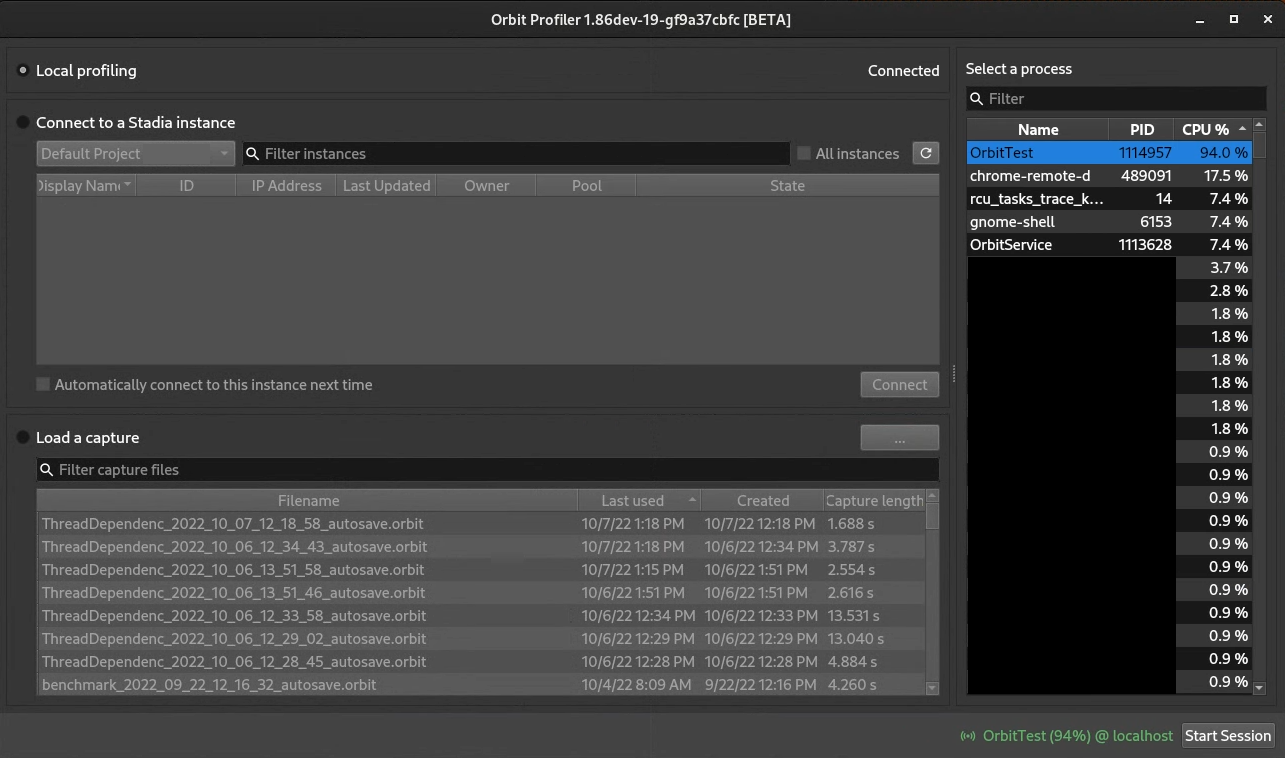
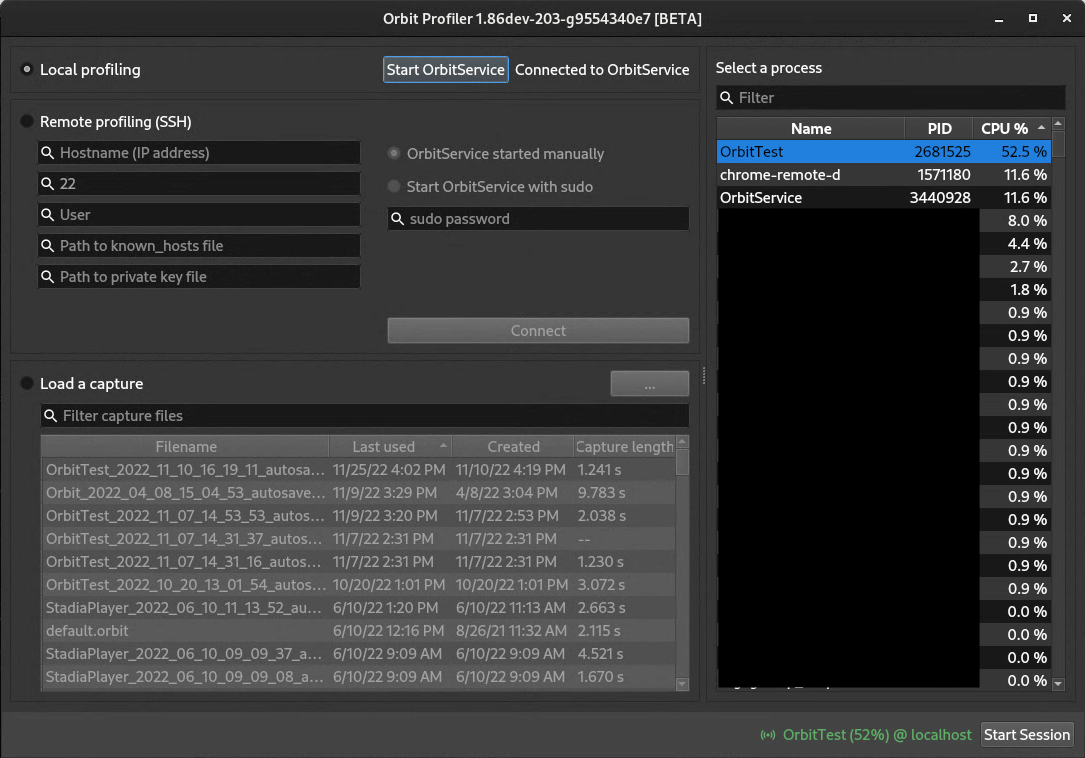
Update Documentation

diff --git a/documentation/DOCUMENTATION.md b/documentation/DOCUMENTATION.md
@@ -14,38 +14,17 @@ have feature requests, consider creating an
 > **Note** Orbit is now mainly a **Linux** profiler. Windows support is
 > experimental and not all features are available on Windows.
 
-## Prerequisites
+## Start Orbit and OrbitService
 
-You need to have `Orbit` and `OrbitService`
-[built](../DEVELOPMENT.md#building-orbit) and
-[running](../DEVELOPMENT.md#building-orbit).
+When starting Orbit, the so-called **Connection Window** (screenshot below) is
+shown. From here, you can start a local or remote profiling session. 
 
-> **Note** For reasonable feature support, `OrbitService` needs to run as
-> **root** (or Administrator on Windows).
+![Connection Window][orbit_connection_window]
 
-> **Note** For remote profiling support you can tunnel the TCP port `44765`
-> through an SSH connection to an arbitrary Linux server.
+### Local Profiling
 
-## Profile your application
-
-In this section, we will go through a capture session showing you how to select
-your target process for profiling, dynamically instrument functions, and record
-a capture. Note that captures are saved automatically.
-
-### Connect Orbit
-
-This section shows you how to select your target process for profiling or load a
-saved capture.
-
-> **Note** Your application must already be running on the target instance.
-
-1. Launch `Orbit` and `OrbitService` as described
-   [here](../DEVELOPMENT.md#building-orbit).
-   Orbit will open the so-called **Connection Window** (screenshot below).
-
-   ![Choose Process in Orbit][orbit_processes]
-2. Select **Local profiling**.
-
+1. Select `Local Profiling`, click `Start OrbitService` and enter your root password
+   
    Once the connection gets established, the right pane shows the processes
    running on the target machine. Note that Orbit sorts processes by CPU usage
    and automatically selects the first process in the list.
@@ -55,7 +34,9 @@ saved capture.
    > window. For ease of access, Orbit maintains a list of captures that you
    > saved recently.
 
-3. To confirm the selected process and continue to the main window, click
+   ![Choose Process in Orbit][orbit_processes]
+
+2. To confirm the selected process and continue to the main window, click
    **Start Session** or <kbd>Double-Click</kbd> the process. In the
    **Main Window**, you can see the following:
 
@@ -68,11 +49,41 @@ saved capture.
 
    ![Orbit's main window with processes and modules][orbit_main_window_startup]
 
-4. To return to the startup window and select a different process, or connect
-   to a different instance, click **End Session**.
+3. To return to the **Connection Window** and select a different process, or 
+   connect to a different machine, click **End Session**.
 
    > **Note** If you loaded a capture from file, the right side of the menu bar
    displays the filename of the capture instead of connection details.
+
+### Remote Profiling (SSH)
+
+Orbit supports setting up and using a secure communication channel between the
+locally running UI and OrbitService running on a remote machine. To do that, 
+use the **Connection Window** and
+
+1. Select `Remote Profiling (SSH)`
+
+2. Fill all fields on the left side with the values you want to use for the SSH
+   connection. Orbit only supports file based authentication.
+
+3. Choose either `OrbitService started manually` or 
+  `Start OrbitService with sudo`.
+
+   Pick the former if you manually started OrbitService on the remote machine.
+
+   If you want Orbit to upload and start OrbitService, choose the other option
+   and provide a sudo password.
+
+4. Click `Connect` and wait for Orbit to establish the ssh connection.
+
+5. Continue by selecting your target process and starting the session in the 
+   same way as described [above](#local-profiling)
+
+## Profile your application
+
+In this section, we will go through a capture session. This includes recording
+a capture with callstack sampling, dynamically instrumenting functions and 
+more. Note that captures are saved automatically.
 
 ### Record a capture with callstack sampling
 
@@ -835,6 +846,7 @@ we highly recommend that you take a look at the references provided above.
 [linux-proc]: https://man7.org/linux/man-pages/man5/proc.5.html
 [linux-vmstat]: https://man7.org/linux/man-pages/man8/vmstat.8.html
 [linux-cgroup]: https://www.kernel.org/doc/Documentation/cgroup-v1/memory.txt
+[orbit_connection_window]: orbit_connection_window.png
 [orbit_processes]: orbit_processes.png
 [orbit_main_window_default_capture]: orbit_main_window_default_capture.png
 [orbit_main_window_capture]: orbit_main_window_capture.png

diff --git a/DEVELOPMENT.md b/DEVELOPMENT.md
@@ -139,30 +139,58 @@ Alternatively you can download prebuilts from [python.org](https://www.python.or
 (In both cases verify that `pip3.exe` is in the path, otherwise the bootstrap
 script will not be able to install conan for you.)
 
-## Running Orbit
+## Running Orbit 
 
-Like mentioned before, the collector currently only works for Linux. So the following
-only applies there:
+Documentation about how to use Orbit's UI to connect to OrbitService can be found
+[here](documentation/DOCUMENTATION.md#connect-orbit).
 
-1. Start Orbit via 
+Alternatively you can use command line flags to automate the connection setup. This
+is explained the next sections.
+
+> **Note:** As mentioned before, the collector currently only works for Linux.
+
+### Local Profiling
+
+1. Start OrbitService 
 ```bash
-./build_default_relwithdebinfo/bin/Orbit
+sudo ./build_default_relwithdebinfo/bin/OrbitService
 ```
-2. Start OrbitService by clicking the button `Start OrbitService`. To obtain scheduling
-   information, the collector needs to run as root, hence this will prompt you for a
-	 password (via [pkexec](https://linux.die.net/man/1/pkexec)). Alternatively, you can 
-	 start OrbitService yourself:
+2. Start Orbit with the `--process_name` flag
+```bash
+./build_default_relwithdebinfo/bin/Orbit --process_name="<your process>"
+```
+3. Click `Start Session` and continue to the **Main Window**
+
+
+
+### Remote Profiling (SSH connection)
+
+To automate remote profiling, start Orbit with the following flags:
 
 ```bash
-sudo ./build_default_relwithdebinfo/bin/OrbitService # Start the collector
+./build_default_relwithdebinfo/bin/Orbit \
+    --ssh_hostname="<ip address>" \
+    --ssh_port=1234 \ # default 22
+    --ssh_user="<username>" \
+    --ssh_key_path="<path to private key file>" \
+    --ssh_known_host_path="<path to known_hosts file>" \
+    --ssh_target_process="<process name>" \
+    --collector_root_password="<sudo password>"
 ```
 
-The frontend currently has no graphical user interface to connect to a generic
-remote instance. Only Stadia is supported as a special case. 
+This does the following:
+1. Start Orbit on the local machine
+2. Start a SSH connection to the remote machine
+3. Upload OrbitService to the remote machine
+4. Start OrbitService with sudo
+5. Select the target process
+6. Open the **Main Window**
 
-If you needed remote profiling support you could tunnel the mentioned TCP port through
-a SSH connection to an arbitrary Linux server. There are plans on adding generic
-SSH tunneling support but we can't promise any timeframe for that.
+> **Note**: If you omit the `--collector_root_password` flag, Orbit will assume OrbitService is
+already running and skip steps 3 and 4.
+
+> **Note**: If you omit the `--ssh_target_process` flag, Orbit will start with the
+**Connection Window** prefilled with the other flags.
 
 ## Consistent code styling
 
